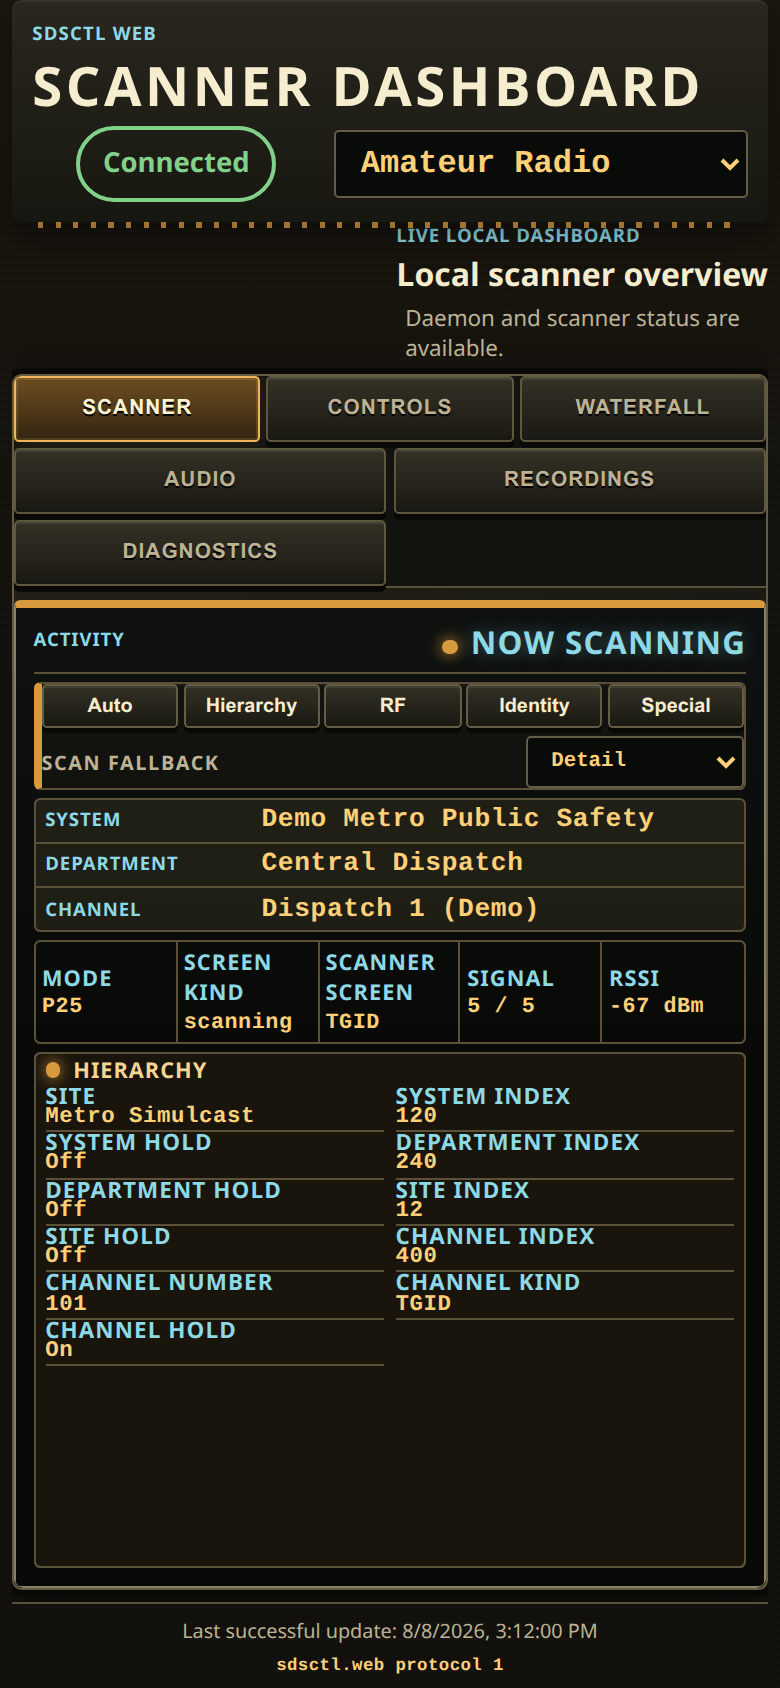
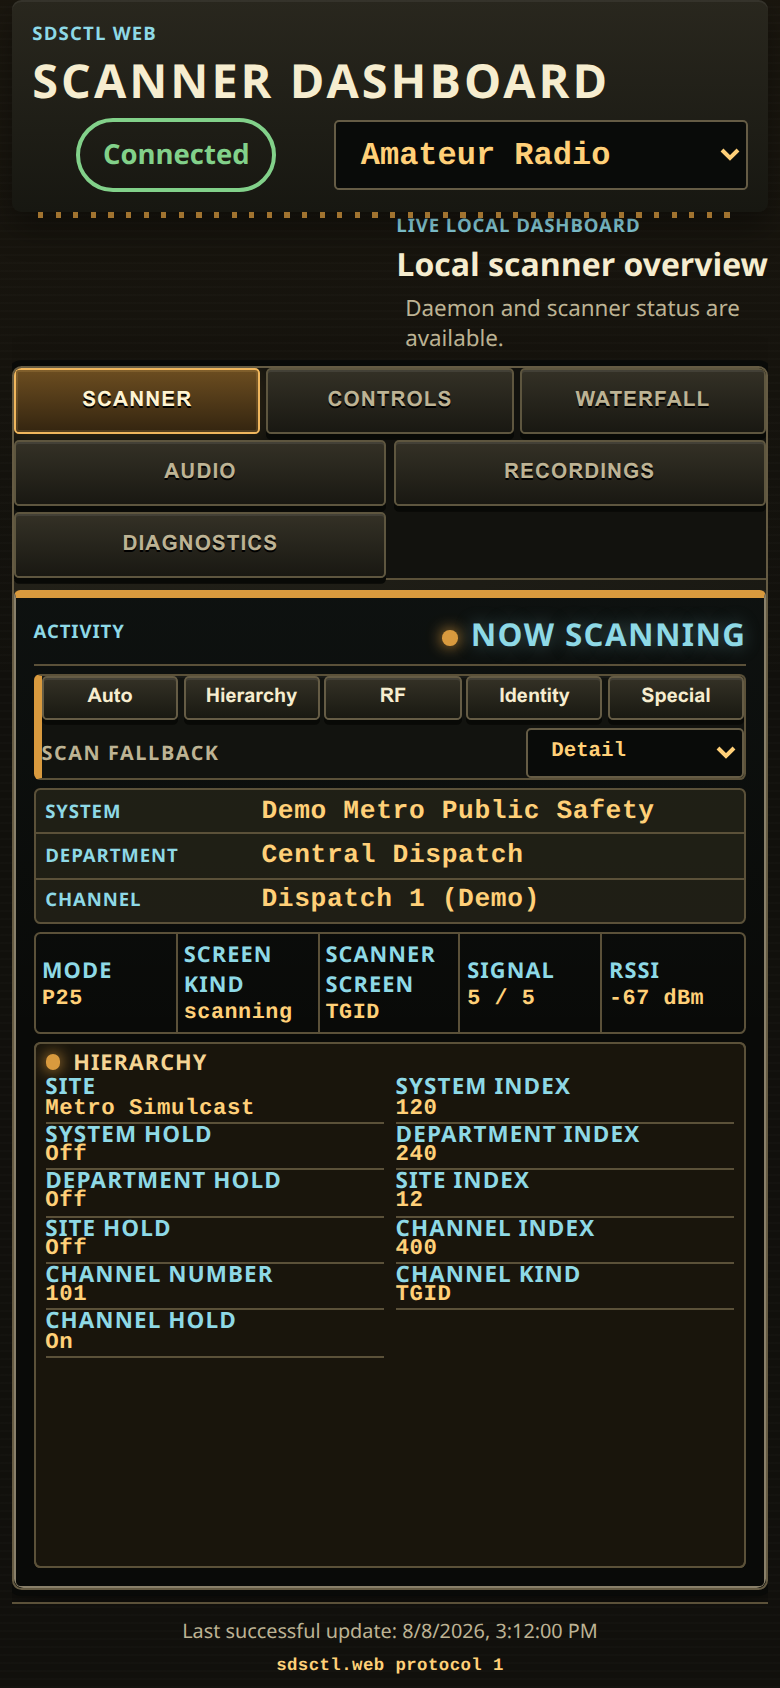
fix: keep phone dashboard titles within viewport

Changed region(s): [[0.0, 0.0308, 0.9846, 0.8318], [0.9231, 0.0616, 0.9538, 0.1232]]

diff --git a/src/sds200/web_assets/dashboard-viewport.css b/src/sds200/web_assets/dashboard-viewport.css
@@ -764,7 +764,7 @@
     .site-header .brand h1 {
       overflow-wrap: normal !important;
       white-space: nowrap !important;
-      font-size: clamp(1.35rem, 7vw, 1.7rem) !important;
+      font-size: clamp(1.2rem, 6vw, 1.5rem) !important;
     }
 
     .site-header > .status-badge {

diff --git a/tests/test_web_theme_runtime.py b/tests/test_web_theme_runtime.py
@@ -503,6 +503,7 @@ def test_managed_stylesheet_cannot_escape_shared_viewport_cascade(
         "grid-column: 1 / -1 !important",
         "justify-self: stretch !important",
         "clip: rect(0, 0, 0, 0) !important",
+        "font-size: clamp(1.2rem, 6vw, 1.5rem) !important",
         "white-space: nowrap !important",
     ):
         assert protected in viewport.text
